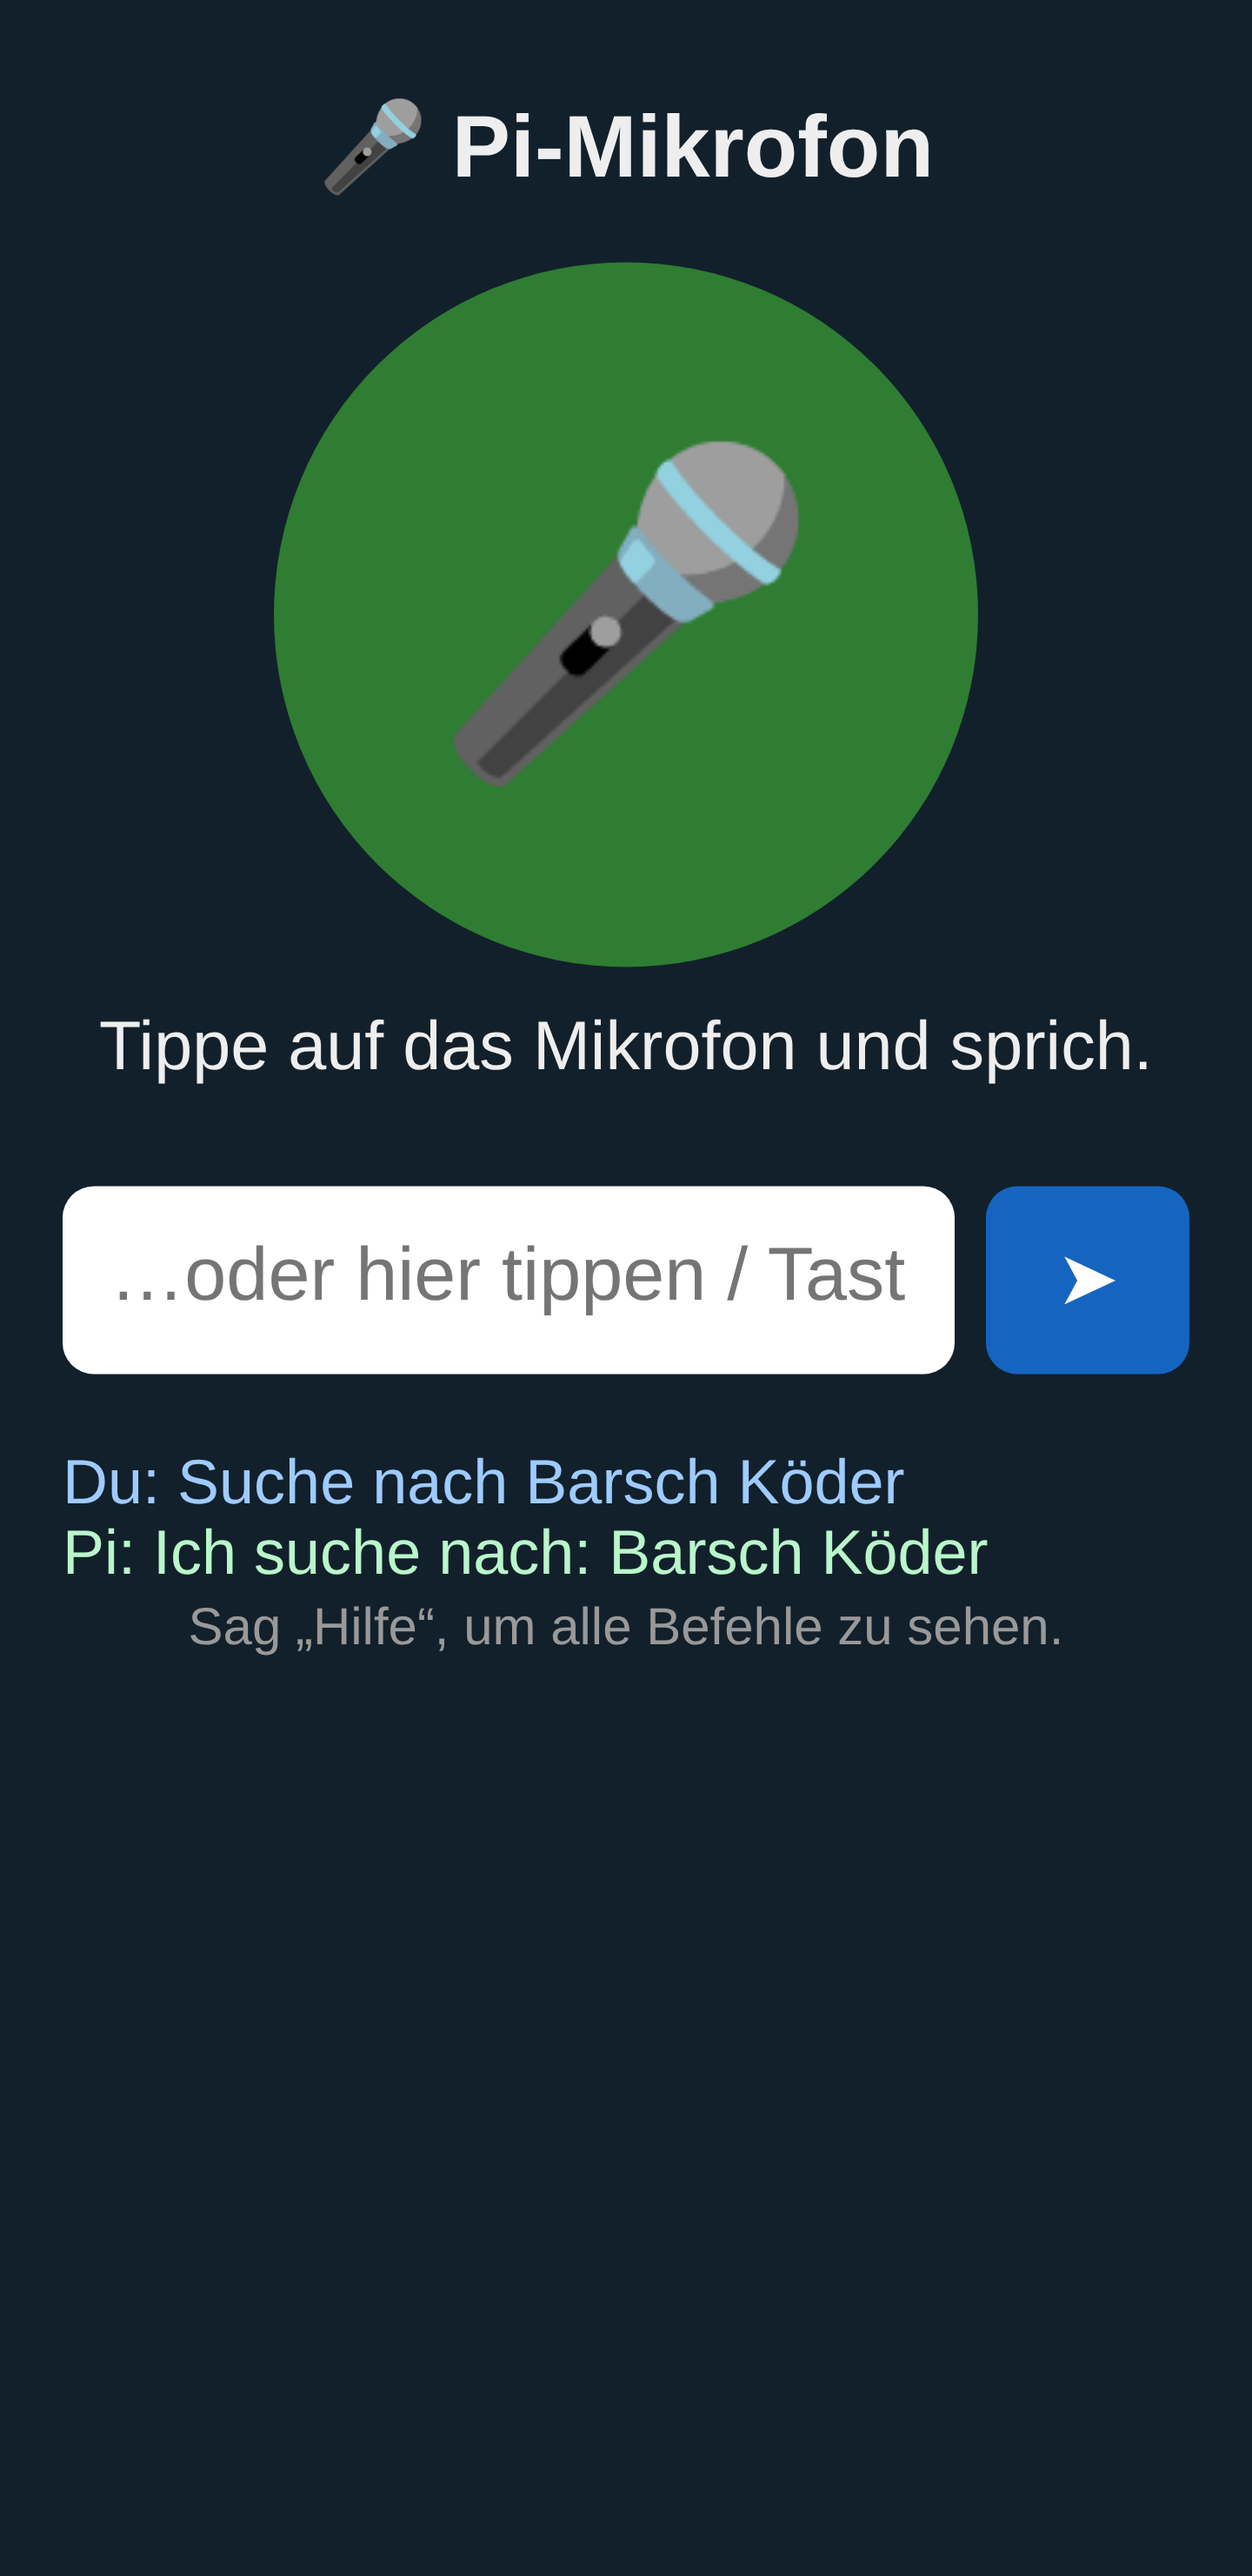
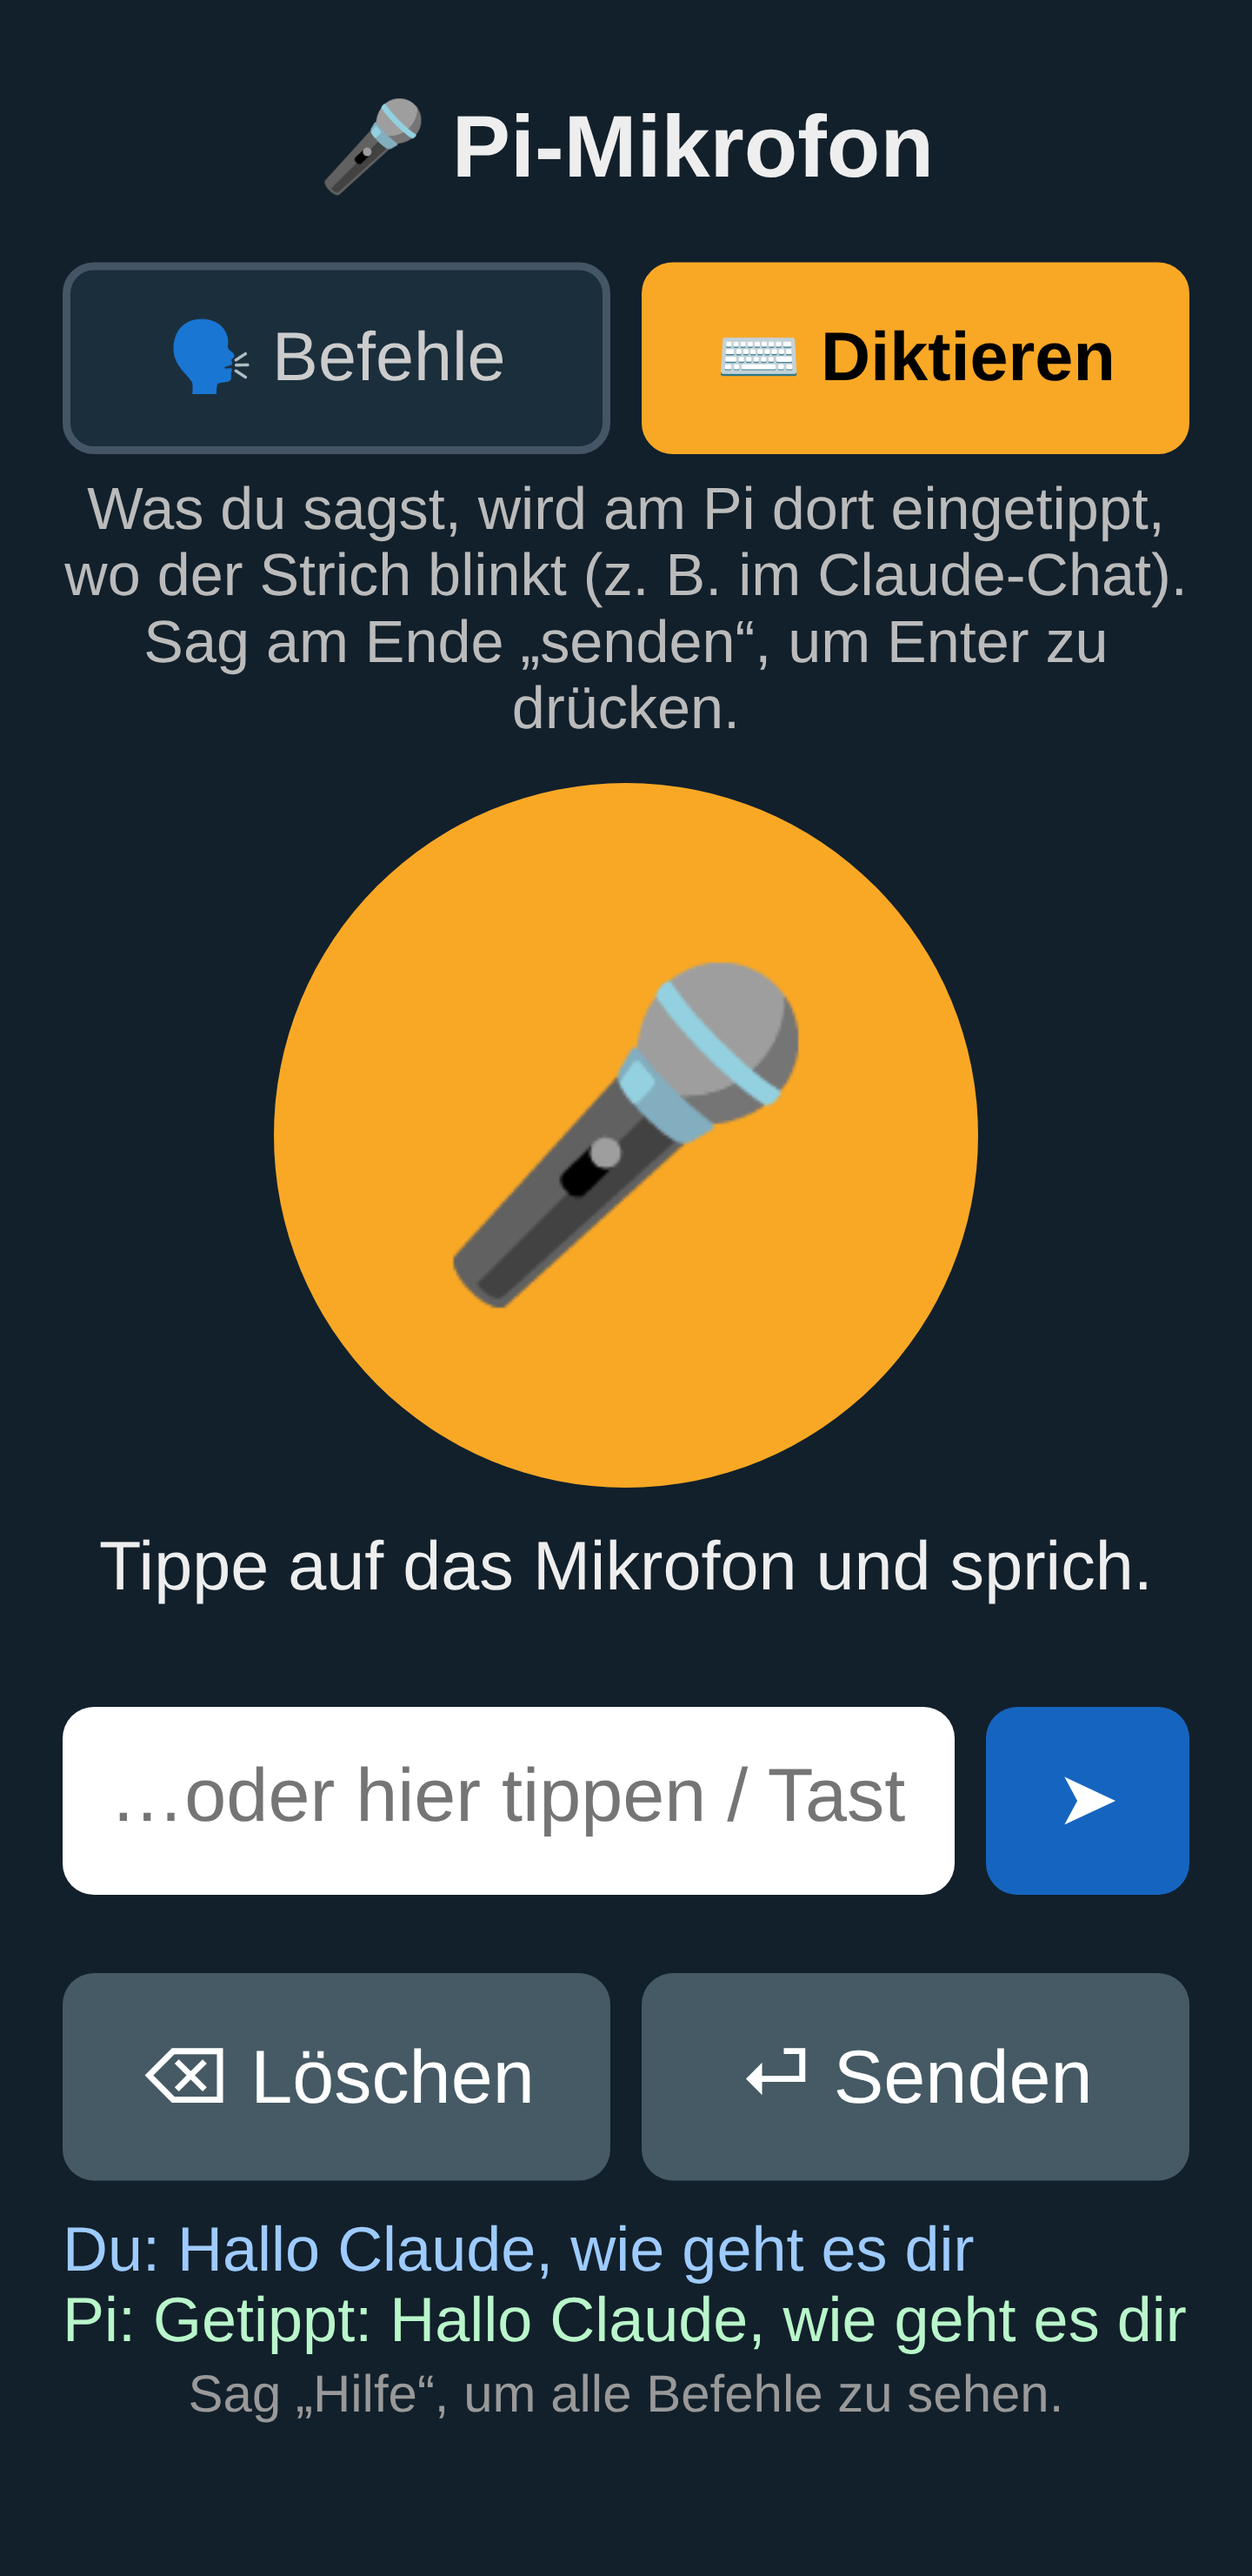
Diktier-Modus: Sprache am Handy wird am Pi eingetippt
Claude-Session: https://claude.ai/code/session_01PRfiDx3p2s3oyaDsfthnyK

diff --git a/sprachsteuerung.py b/sprachsteuerung.py
@@ -62,12 +62,44 @@ def befehl_suche(rest):
     return f"Ich suche nach: {rest}"
 
 
+FEHLT_TIPPHILFE = ("Zum Tippen fehlt ein Hilfsprogramm. Am Pi das Einrichten nochmal ausführen "
+                   "oder eingeben: sudo apt install wtype xdotool")
+
+
+def tippe(text=None, taste=None):
+    """Tippt Text (oder drueckt eine Taste) im gerade aktiven Fenster am Pi.
+    Wayland (Standard beim Pi 400) braucht 'wtype', das aeltere X11 braucht 'xdotool'."""
+    if os.environ.get("WAYLAND_DISPLAY") and shutil.which("wtype"):
+        befehl = ["wtype", "-k", taste] if taste else ["wtype", "--", text]
+    elif shutil.which("xdotool"):
+        befehl = ["xdotool", "key", taste] if taste else ["xdotool", "type", "--delay", "20", "--", text]
+    else:
+        return False
+    subprocess.run(befehl, stdout=subprocess.DEVNULL, stderr=subprocess.DEVNULL, timeout=30)
+    return True
+
+
+def diktiere(text):
+    """Diktier-Modus: alles Gesagte wird am Pi eingetippt.
+    Endet der Satz mit 'senden' oder 'absenden', wird danach Enter gedrueckt."""
+    text = text.strip()
+    enter = False
+    for wort in ("absenden", "senden", "abschicken"):
+        if text.lower().rstrip(" .!?").endswith(wort):
+            text = text.rstrip(" .!?")[: -len(wort)].rstrip(" ,.")
+            enter = True
+            break
+    if text and not tippe(text + ("" if enter else " ")):
+        return FEHLT_TIPPHILFE
+    if enter and not tippe(taste="Return"):
+        return FEHLT_TIPPHILFE
+    return (f"Getippt: {text}" if text else "") + (" ⏎ gesendet" if enter else "")
+
+
 def befehl_schreibe(rest):
     if not rest:
         return "Was soll ich schreiben?"
-    if starte_erstes(["wtype", rest], ["xdotool", "type", "--delay", "30", rest]):
-        return f"Geschrieben: {rest}"
-    return "Zum Schreiben fehlt ein Hilfsprogramm. Auf dem Pi eingeben: sudo apt install wtype xdotool"
+    return f"Geschrieben: {rest}" if tippe(rest) else FEHLT_TIPPHILFE
 
 
 def befehl_screenshot(_):
@@ -148,20 +180,48 @@ SEITE = """<!DOCTYPE html>
  #log{text-align:left;font-size:1em}
  .du{color:#9ecbff;margin-top:10px}.pi{color:#b9f6ca}
  small{color:#999}
+ #modi{display:flex;gap:8px;margin-bottom:6px}
+ #modi button{flex:1;font-size:1.1em;padding:12px;border-radius:8px;border:2px solid #456;background:#1b2e3c;color:#ccc}
+ #modi button.aktiv{background:#f9a825;color:#000;border-color:#f9a825;font-weight:bold}
+ #tasten{display:none;gap:8px;margin-top:8px}
+ #tasten button{flex:1;font-size:1.2em;padding:14px;border-radius:8px;border:none;background:#455a64;color:#fff}
+ body.diktat #tasten{display:flex}
+ body.diktat #mic{background:#f9a825}
+ body.diktat #mic.an{background:#c62828}
+ #info{font-size:.95em;color:#bbb;min-height:2.4em}
 </style></head><body>
 <h1>🎤 Pi-Mikrofon</h1>
+<div id="modi"><button id="mBefehl">🗣 Befehle</button><button id="mDiktat">⌨ Diktieren</button></div>
+<div id="info"></div>
 <button id="mic">🎤</button>
 <div id="status">Tippe auf das Mikrofon und sprich.</div>
 <form id="f"><input id="t" placeholder="…oder hier tippen / Tastatur-Mikrofon" autocomplete="off"><button class="s">➤</button></form>
+<div id="tasten"><button id="bLoesch">⌫ Löschen</button><button id="bEnter">⏎ Senden</button></div>
 <div id="log"></div>
 <small>Sag „Hilfe“, um alle Befehle zu sehen.</small>
 <script>
 const st=document.getElementById('status'),log=document.getElementById('log'),mic=document.getElementById('mic');
+let modus=localStorage.getItem('modus')||'befehl';
+function setzeModus(m){modus=m;localStorage.setItem('modus',m);
+  document.body.classList.toggle('diktat',m=='diktat');
+  document.getElementById('mBefehl').classList.toggle('aktiv',m=='befehl');
+  document.getElementById('mDiktat').classList.toggle('aktiv',m=='diktat');
+  document.getElementById('info').textContent=m=='diktat'
+   ?'Was du sagst, wird am Pi dort eingetippt, wo der Strich blinkt (z. B. im Claude-Chat). Sag am Ende „senden“, um Enter zu drücken.'
+   :'Sag einen Befehl, z. B. „Öffne YouTube“. „Hilfe“ zeigt alle Befehle.';}
+document.getElementById('mBefehl').onclick=()=>setzeModus('befehl');
+document.getElementById('mDiktat').onclick=()=>setzeModus('diktat');
+setzeModus(modus);
+async function taste(m,anzeige){
+  try{const r=await fetch('befehl',{method:'POST',headers:{'Content-Type':'application/json'},body:JSON.stringify({modus:m})});
+      st.textContent=(await r.json()).antwort;}catch(e){st.textContent='Pi nicht erreichbar.';}}
+document.getElementById('bEnter').onclick=()=>taste('enter');
+document.getElementById('bLoesch').onclick=()=>taste('loeschen');
 async function sende(text){
   if(!text.trim())return;
   log.insertAdjacentHTML('afterbegin','<div class="pi">…</div>');
   log.insertAdjacentHTML('afterbegin','<div class="du">Du: '+text.replace(/</g,'&lt;')+'</div>');
-  try{const r=await fetch('befehl',{method:'POST',headers:{'Content-Type':'application/json'},body:JSON.stringify({text})});
+  try{const r=await fetch('befehl',{method:'POST',headers:{'Content-Type':'application/json'},body:JSON.stringify({text,modus})});
       const d=await r.json();log.children[1].textContent='Pi: '+d.antwort;}
   catch(e){log.children[1].textContent='Pi nicht erreichbar.';}
 }
@@ -208,10 +268,22 @@ class Handler(http.server.BaseHTTPRequestHandler):
     def do_POST(self):
         laenge = int(self.headers.get("Content-Length", 0))
         try:
-            text = json.loads(self.rfile.read(laenge)).get("text", "")
+            daten = json.loads(self.rfile.read(laenge))
         except Exception:
-            text = ""
-        antwort = verarbeite(text)
+            daten = {}
+        text = daten.get("text", "")
+        modus = daten.get("modus", "befehl")
+        try:
+            if modus == "enter":
+                antwort = "⏎ Enter gedrückt" if tippe(taste="Return") else FEHLT_TIPPHILFE
+            elif modus == "loeschen":
+                antwort = "⌫ gelöscht" if tippe(taste="BackSpace") else FEHLT_TIPPHILFE
+            elif modus == "diktat":
+                antwort = diktiere(text)
+            else:
+                antwort = verarbeite(text)
+        except Exception as fehler:
+            antwort = f"Fehler: {fehler}"
         print(f"  Gehört: {text!r}  ->  {antwort}")
         self._antworte(200, "application/json", json.dumps({"antwort": antwort}).encode())
 

diff --git a/CLAUDE.md b/CLAUDE.md
@@ -10,6 +10,10 @@ Das Smartphone des Nutzers (Samsung, Chrome) dient als Sprach-Fernbedienung für
   - Liefert die Handy-Seite aus (im Python-Code eingebettet, Variable `SEITE`).
   - Das Handy macht die Spracherkennung (Chrome Web Speech API, Deutsch) und schickt den Text an `/befehl`.
   - Befehlsliste `BEFEHLE` oben im Code: Stichwörter → Aktion.
+- Zwei Modi am Handy: **Befehle** und **Diktieren** (Text wird am Pi im aktiven Fenster eingetippt,
+  z. B. im Claude-Chat; „senden“ am Satzende drückt Enter; Knöpfe ⌫ Löschen und ⏎ Senden).
+  Der Pi 400 hat kein Mikrofon – Diktieren ersetzt das Mikrofon-Symbol von Claude am Pi.
+- `einrichten.sh` – lädt neueste Version, installiert `wtype`/`xdotool`, Autostart + Startmenü-Eintrag.
 - Fallback: Textfeld, in das man mit dem Mikrofon der Handy-Tastatur sprechen kann.
 
 ## 2. Entscheidungen
@@ -24,10 +28,12 @@ Das Smartphone des Nutzers (Samsung, Chrome) dient als Sprach-Fernbedienung für
 |---|---|
 | 2026-11-16 | Erste Version (vorher kurz im Repository Angel-Adventure, dann hierher umgezogen) |
 | 2026-11-16 | Läuft beim Nutzer. `einrichten.sh`: Autostart + Startmenü-Eintrag; deutsche Hilfetexte bei Mikrofon-Fehlern |
+| 2026-11-16 | Diktier-Modus: Sprache wird am Pi eingetippt (Ersatz für fehlendes Pi-Mikrofon) |
 
 ## 4. Offene Ideen
 
 - Eigene Befehle des Nutzers ergänzen
+- Optional: echtes virtuelles Mikrofon (Audio-Streaming zu PipeWire), falls Diktieren nicht reicht
 
 ## 5. Zusammenarbeit
 

diff --git a/README.md b/README.md
@@ -3,20 +3,22 @@
 Mit diesem kleinen Programm wird dein Handy zur Sprach-Fernbedienung für deinen Raspberry Pi.
 Du sprichst ins Handy, und der Pi führt den Befehl aus (z. B. „Öffne YouTube“, „lauter“, „suche nach …“).
 
-## Einrichten (einmalig, am Raspberry Pi im Terminal)
+## Einrichten / Aktualisieren (am Raspberry Pi im Terminal einfügen)
 
 ```
-mkdir -p ~/smartphone-mikrofon && cd ~/smartphone-mikrofon
-wget -N https://raw.githubusercontent.com/marchens1977/Smartphone-Mikrofon/main/sprachsteuerung.py
+echo start
+wget -qO- https://raw.githubusercontent.com/marchens1977/Smartphone-Mikrofon/main/einrichten.sh | bash
+echo ende
 ```
 
-## Starten
+Danach startet das Programm automatisch mit dem Pi. Die Adresse fürs Handy steht im
+Startmenü unter Zubehör → Smartphone-Mikrofon.
 
-```
-cd ~/smartphone-mikrofon && python3 sprachsteuerung.py
-```
+## Zwei Modi
 
-Der Pi zeigt eine Adresse an (z. B. `https://192.168.178.25:8443`).
+- **Befehle:** z. B. „Öffne YouTube“.
+- **Diktieren:** Was du sagst, wird am Pi dort eingetippt, wo der Strich blinkt (z. B. im Claude-Chat).
+  Sag am Ende „senden“, um Enter zu drücken.
 
 ## Am Handy
 
